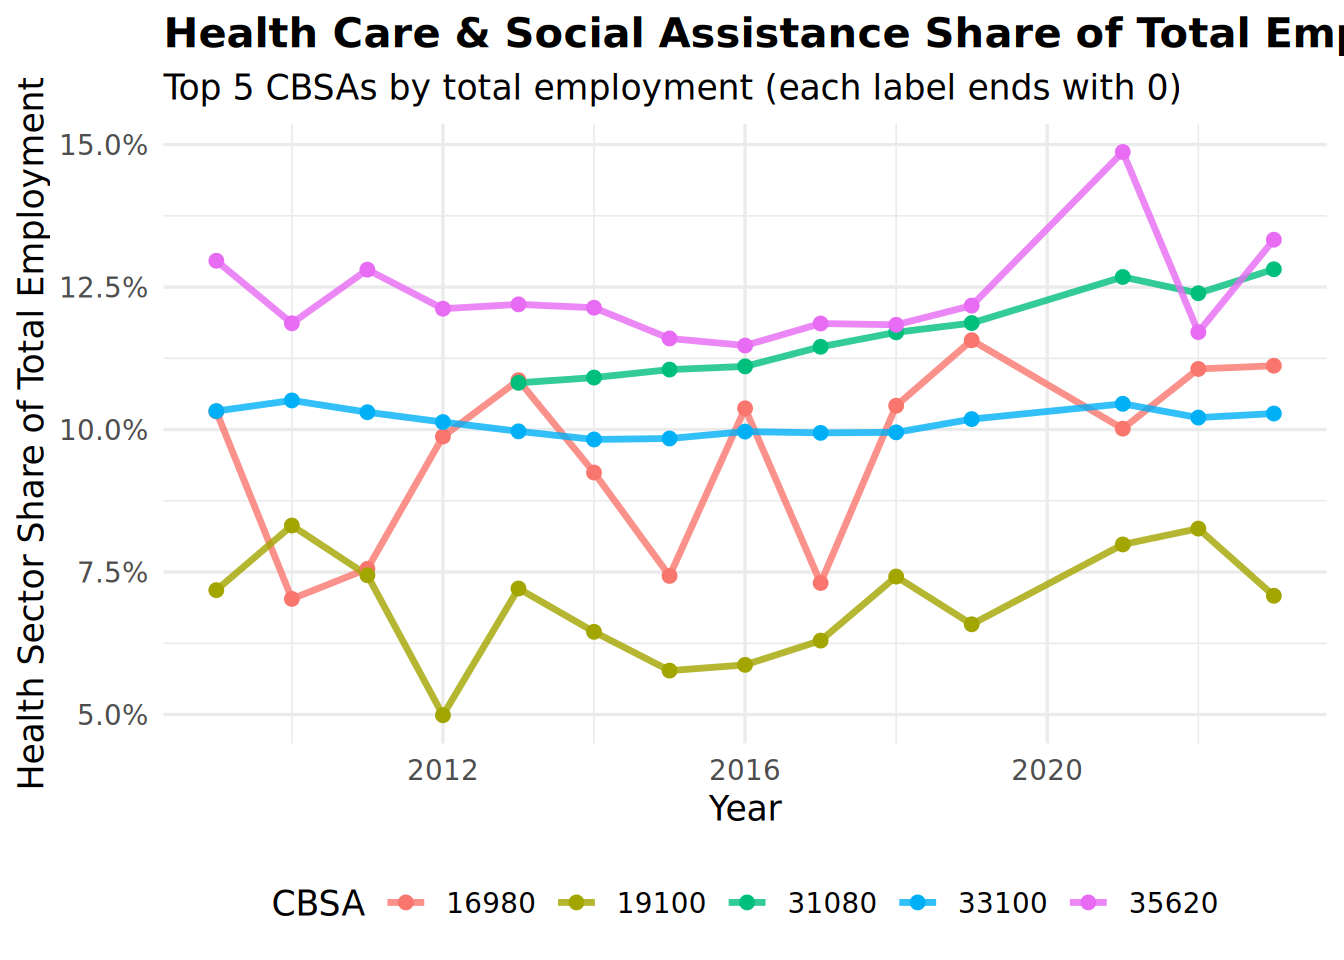
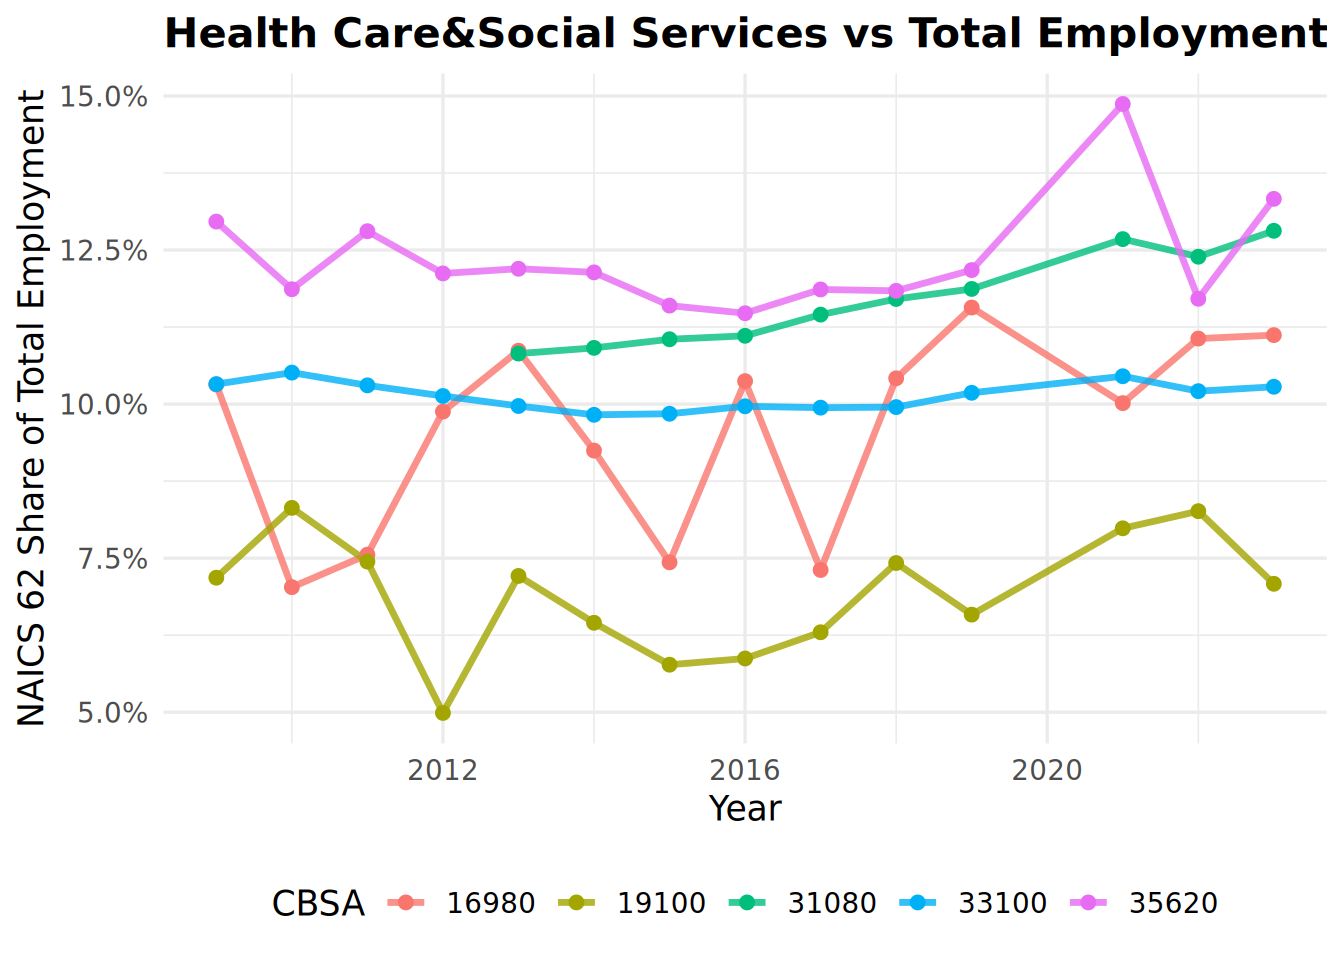
wednesday save

diff --git a/docs/mp02.html b/docs/mp02.html
@@ -155,8 +155,8 @@ ul.task-list li input[type="checkbox"] {
 <p>Next, we will see some of the findings that were extracted from this data. To begin, we see the top 5 CBSA’s that permitted the largest number of new housing in the 2010’s.</p>
 <div class="cell">
 <div class="cell-output-display">
-<div class="datatables html-widget html-fill-item" id="htmlwidget-35a3964bca9de4398be7" style="width:100%;height:auto;"></div>
-<script type="application/json" data-for="htmlwidget-35a3964bca9de4398be7">{"x":{"filter":"none","vertical":false,"caption":"<caption>Top 5 CBSAs with the Most New Housing Units Permitted (2010–2019, using 2019 CBSA Names)<\/caption>","data":[["1","2","3","4","5"],[26420,19100,35620,12060,47900],["Houston-The Woodlands-Sugar Land, TX Metro Area","Dallas-Fort Worth-Arlington, TX Metro Area","New York-Newark-Jersey City, NY-NJ-PA Metro Area","Atlanta-Sandy Springs-Alpharetta, GA Metro Area","Washington-Arlington-Alexandria, DC-VA-MD-WV Metro Area"],[482075,460826,446020,254377,232483]],"container":"<table class=\"display\">\n  <thead>\n    <tr>\n      <th> <\/th>\n      <th>CBSA<\/th>\n      <th>NAME<\/th>\n      <th>new_units<\/th>\n    <\/tr>\n  <\/thead>\n<\/table>","options":{"dom":"t","scrollX":true,"columnDefs":[{"className":"dt-right","targets":[1,3]},{"orderable":false,"targets":0},{"name":" ","targets":0},{"name":"CBSA","targets":1},{"name":"NAME","targets":2},{"name":"new_units","targets":3}],"order":[],"autoWidth":false,"orderClasses":false}},"evals":[],"jsHooks":[]}</script>
+<div class="datatables html-widget html-fill-item" id="htmlwidget-491eb739eb9ceb6179eb" style="width:100%;height:auto;"></div>
+<script type="application/json" data-for="htmlwidget-491eb739eb9ceb6179eb">{"x":{"filter":"none","vertical":false,"caption":"<caption>Top 5 CBSAs with the Most New Housing Units Permitted (2010–2019, using 2019 CBSA Names)<\/caption>","data":[["1","2","3","4","5"],[26420,19100,35620,12060,47900],["Houston-The Woodlands-Sugar Land, TX Metro Area","Dallas-Fort Worth-Arlington, TX Metro Area","New York-Newark-Jersey City, NY-NJ-PA Metro Area","Atlanta-Sandy Springs-Alpharetta, GA Metro Area","Washington-Arlington-Alexandria, DC-VA-MD-WV Metro Area"],[482075,460826,446020,254377,232483]],"container":"<table class=\"display\">\n  <thead>\n    <tr>\n      <th> <\/th>\n      <th>CBSA<\/th>\n      <th>NAME<\/th>\n      <th>new_units<\/th>\n    <\/tr>\n  <\/thead>\n<\/table>","options":{"dom":"t","scrollX":true,"columnDefs":[{"className":"dt-right","targets":[1,3]},{"orderable":false,"targets":0},{"name":" ","targets":0},{"name":"CBSA","targets":1},{"name":"NAME","targets":2},{"name":"new_units","targets":3}],"order":[],"autoWidth":false,"orderClasses":false}},"evals":[],"jsHooks":[]}</script>
 </div>
 </div>
 <p>As we can see, the CBSA that permitted the largest number of new housing units between 2010 and 2019 was Houston-The Woodlands-Sugar Land, TX Metro Area.</p>
@@ -185,8 +185,8 @@ ul.task-list li input[type="checkbox"] {
 <p>Next findings show which CBSA had the most amount of data scientists in the last 5 years.</p>
 <div class="cell">
 <div class="cell-output-display">
-<div class="datatables html-widget html-fill-item" id="htmlwidget-a5a8eec459635fa61f91" style="width:100%;height:auto;"></div>
-<script type="application/json" data-for="htmlwidget-a5a8eec459635fa61f91">{"x":{"filter":"none","vertical":false,"caption":"<caption>Top 5 Most Recent Years – CBSA with the Most Data Scientists (NAICS 5182)<\/caption>","data":[["1","2","3","4","5"],[2023,2022,2021,2019,2018],[41860,41860,12060,41860,41860],["San Francisco-Oakland-Fremont, CA Metro Area","San Francisco-Oakland-Fremont, CA Metro Area","Atlanta-Sandy Springs-Marietta, GA Metro Area","San Francisco-Oakland-Fremont, CA Metro Area","San Francisco-Oakland-Fremont, CA Metro Area"]],"container":"<table class=\"display\">\n  <thead>\n    <tr>\n      <th> <\/th>\n      <th>YEAR<\/th>\n      <th>cbsa_code<\/th>\n      <th>cbsa_name<\/th>\n    <\/tr>\n  <\/thead>\n<\/table>","options":{"dom":"t","scrollX":true,"columnDefs":[{"className":"dt-right","targets":[1,2]},{"orderable":false,"targets":0},{"name":" ","targets":0},{"name":"YEAR","targets":1},{"name":"cbsa_code","targets":2},{"name":"cbsa_name","targets":3}],"order":[],"autoWidth":false,"orderClasses":false}},"evals":[],"jsHooks":[]}</script>
+<div class="datatables html-widget html-fill-item" id="htmlwidget-24998a2df3b69c3a7c2f" style="width:100%;height:auto;"></div>
+<script type="application/json" data-for="htmlwidget-24998a2df3b69c3a7c2f">{"x":{"filter":"none","vertical":false,"caption":"<caption>Top 5 Most Recent Years – CBSA with the Most Data Scientists (NAICS 5182)<\/caption>","data":[["1","2","3","4","5"],[2023,2022,2021,2019,2018],[41860,41860,12060,41860,41860],["San Francisco-Oakland-Fremont, CA Metro Area","San Francisco-Oakland-Fremont, CA Metro Area","Atlanta-Sandy Springs-Marietta, GA Metro Area","San Francisco-Oakland-Fremont, CA Metro Area","San Francisco-Oakland-Fremont, CA Metro Area"]],"container":"<table class=\"display\">\n  <thead>\n    <tr>\n      <th> <\/th>\n      <th>YEAR<\/th>\n      <th>cbsa_code<\/th>\n      <th>cbsa_name<\/th>\n    <\/tr>\n  <\/thead>\n<\/table>","options":{"dom":"t","scrollX":true,"columnDefs":[{"className":"dt-right","targets":[1,2]},{"orderable":false,"targets":0},{"name":" ","targets":0},{"name":"YEAR","targets":1},{"name":"cbsa_code","targets":2},{"name":"cbsa_name","targets":3}],"order":[],"autoWidth":false,"orderClasses":false}},"evals":[],"jsHooks":[]}</script>
 </div>
 </div>
 <p>After taking a closer look at more previous years, you are able to find that 2015 was the last year that the NYC CBSA led the country for data scientists.</p>
@@ -211,6 +211,9 @@ ul.task-list li input[type="checkbox"] {
 </div>
 </div>
 </div>
+<p>The visualization above shows us the relationship between monthly rent and average household income per CBSA in 2009.</p>
+<p>Each dot in the scatter plot refers to a different CBSA.</p>
+<p>As you could see, there is a positive correlation between the cost of rent and household income.</p>
 <div class="cell">
 <div class="cell-output-display">
 <div>
@@ -220,6 +223,8 @@ ul.task-list li input[type="checkbox"] {
 </div>
 </div>
 </div>
+<p>The next visualization shows the relationship between total employment and total employment in the health care and social services sector across different the 5 CBSAs with the highest employment total.</p>
+<p>Over time, depending on the CBSA, the share is volatile and can either decrease or increase. The time where it mostly increases is in the year 2020, due to the COVID-19 pandemic.</p>
 <div class="cell">
 <div class="cell-output-display">
 <div>
@@ -229,6 +234,33 @@ ul.task-list li input[type="checkbox"] {
 </div>
 </div>
 </div>
+<p>The third visualization is the evolution of the average household size over time.</p>
+<p>We highlighted two specific CBSAs, the NY and LA, to take a closer look at the evolution.</p>
+<p>We can infer that the average household size, especially in those CBAs, has been steadily decreasing.</p>
+<p>The next two visualizations will have to deal with rent burden.</p>
+<p>We are going to create an rent-to-income ratio and compare the results around the CBSAs.</p>
+<div class="cell">
+<div class="cell-output-display">
+<div>
+<figure class="figure">
+<p><img src="mp02_files/figure-html/unnamed-chunk-16-1.png" class="img-fluid figure-img" width="672"></p>
+</figure>
+</div>
+</div>
+</div>
+<p>In the visualization above, we take a look at the rent burden in the CBSA in New York. To understand better, the dashed red line represents the 30% affordability benchmark.</p>
+<p>As you could see, despiite public perception, on average, the rent burden for New Yorkers tends to be lower than the benchmark.</p>
+<div class="cell">
+<div class="cell-output-display">
+<div>
+<figure class="figure">
+<p><img src="mp02_files/figure-html/unnamed-chunk-17-1.png" class="img-fluid figure-img" width="672"></p>
+</figure>
+</div>
+</div>
+</div>
+<p>The next visualization shows the rent burden in 2023 for CBSA’s across the nation.</p>
+<p>We are highlighting the CBSA’s with the highest and lowest rent burdens.</p>
 
 
 
